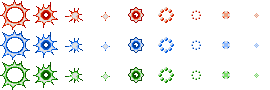
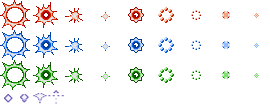
shot particle

diff --git a/Pang/ModuleBalls.cpp b/Pang/ModuleBalls.cpp
@@ -37,7 +37,7 @@ void Ball::CreateBall(int direction)
 		case big:
 		{speed.y = -2.5f; speed.x = 1.8f * direction; radius = 16; YBaseSpeed = -5.5f; offset = 8; break; }
 		case medium:
-		{speed.y = -2.0f; speed.x = 1.5f * direction; radius = 8; YBaseSpeed = -4.6f; offset = 4; break; }
+		{speed.y = -2.0f; speed.x = 1.5f * direction; radius = 8; YBaseSpeed = 0/*-4.6f*/; offset = 4; break; }
 		case little:
 		{speed.y = -1.5f; speed.x = 1.4f * direction; radius = 4; YBaseSpeed = -3.0f; offset = 0; break; }
 	}
@@ -127,29 +127,7 @@ update_status ModuleBalls::Update()
 
 	p2List_item<Ball*>* pointer = ballsList.getFirst();
 
-	if (pauseBoost == true)
-	{
-		pauseCounter++;
-		if (pauseCounter >= PAUSE_BOOST_TIME)
-		{
-			pauseBalls = false;
-			pauseBoost = false;
-			pauseCounter = 0;
-		}
-	}
-	if (bombBoost == true)
-	{
-		bombCounter++;
-		if (bombCounter == 1 || bombCounter == 30 || bombCounter == 60)
-		{
-			Bomb();
-		}
-		if (bombCounter >= 90)
-		{
-			Bomb();
-			bombBoost = false;
-		}
-	}
+	CheckBoosts();
 
 	while (pointer != NULL)
 	{
@@ -169,6 +147,7 @@ update_status ModuleBalls::Update()
 				ballsList.add(newBall2);
 			}
 			App->particles->AddParticle(App->particles->explosion[pointer->data->color][pointer->data->type], pointer->data->position.x, pointer->data->position.y, 15, 15);
+			if (rand() % 100 <= 25) { App->boosts->AddBoost(pointer->data->position.x, pointer->data->position.y); }
 		}
 		else
 		{
@@ -213,6 +192,7 @@ void ModuleBalls::AddBall(int position_x, int position_y, int _type, int _color=
 	Ball* newBall = new Ball(position_x, position_y, _type, _color, _direction);
 	ballsList.add(newBall);
 }
+
 
 void ModuleBalls::CheckBricksColision(p2List_item<Ball*>* currentBall)
 {
@@ -609,16 +589,30 @@ bool ModuleBalls::CheckColision(int tileX, int tileY, Ball* myBall)
 	return ret;
 }
 
-void ModuleBalls::Bomb()
+void ModuleBalls::CheckBoosts()
 {
-	p2List_item<Ball*>* currentBall = ballsList.getFirst();
-	while (currentBall != NULL)
+	if (pauseBoost == true)
 	{
-		if (currentBall->data->type != little)
+		pauseCounter++;
+		if (pauseCounter >= PAUSE_BOOST_TIME)
 		{
-			currentBall->data->dead = true;
+			pauseBalls = false;
+			pauseBoost = false;
+			pauseCounter = 0;
 		}
-		currentBall = currentBall->next;
+	}
+	if (bombBoost == true)
+	{
+		bombCounter++;
+		if (bombCounter == 1 || bombCounter == 30 || bombCounter == 60)
+		{
+			Bomb();
+		}
+		if (bombCounter >= 90)
+		{
+			Bomb();
+			bombBoost = false;
+		}
 	}
 }
 
@@ -633,4 +627,17 @@ void ModuleBalls::PauseBoost()
 	pauseCounter = 0;
 	pauseBalls = true;
 	pauseBoost = true;
+}
+
+void ModuleBalls::Bomb()
+{
+	p2List_item<Ball*>* currentBall = ballsList.getFirst();
+	while (currentBall != NULL)
+	{
+		if (currentBall->data->type != little)
+		{
+			currentBall->data->dead = true;
+		}
+		currentBall = currentBall->next;
+	}
 }

diff --git a/Pang/ModuleParticles.cpp b/Pang/ModuleParticles.cpp
@@ -23,7 +23,13 @@ bool ModuleParticles::Start()
 
 
 	// Explosion particle
-
+	shot.anim.frames.PushBack({ 0, 90, 16, 16 });
+	shot.anim.frames.PushBack({ 16, 90, 16, 16 });
+	shot.anim.frames.PushBack({ 32, 90, 16, 16 });
+	shot.anim.frames.PushBack({ 48, 90, 16, 16 });
+	shot.anim.loop = false;
+	shot.anim.speed = 0.4f;
+	shot.fx = App->audio->LoadFx("Sounds/Shot.wav");
 	  
 	explosion[0][0].fx = App->audio->LoadFx("Sounds/Explosion.ogg");
 	for (int n = 0; n < 3; n++)

diff --git a/Pang/ModuleBalls.h b/Pang/ModuleBalls.h
@@ -51,8 +51,9 @@ public:
 	void AddBall(int position_x, int position_y, int _type, int _color, int _direction);
 	void CheckBricksColision(p2List_item<Ball*>*);
 	bool CheckColision(int tileX, int tileY, Ball* myBall);
-	void Bomb();
+	void CheckBoosts();
 	void PauseBoost();
 	void BombBoost();
+	void Bomb();
 
 };

diff --git a/Pang/ModuleBoost.cpp b/Pang/ModuleBoost.cpp
@@ -74,6 +74,8 @@ void ModuleBoost::AddBoost(int x, int y)
 {
 	Boost* b = new Boost();
 
+	if (y > TILE * 23) { y = TILE * 23 - 4; }
+
 	b->type = rand() % 4 + 1;
 	switch (b->type)
 	{

diff --git a/Pang/ModuleParticles.h b/Pang/ModuleParticles.h
@@ -45,5 +45,6 @@ private:
 public:
 
 	Particle explosion[3][4];
+	Particle shot;
 
 };
